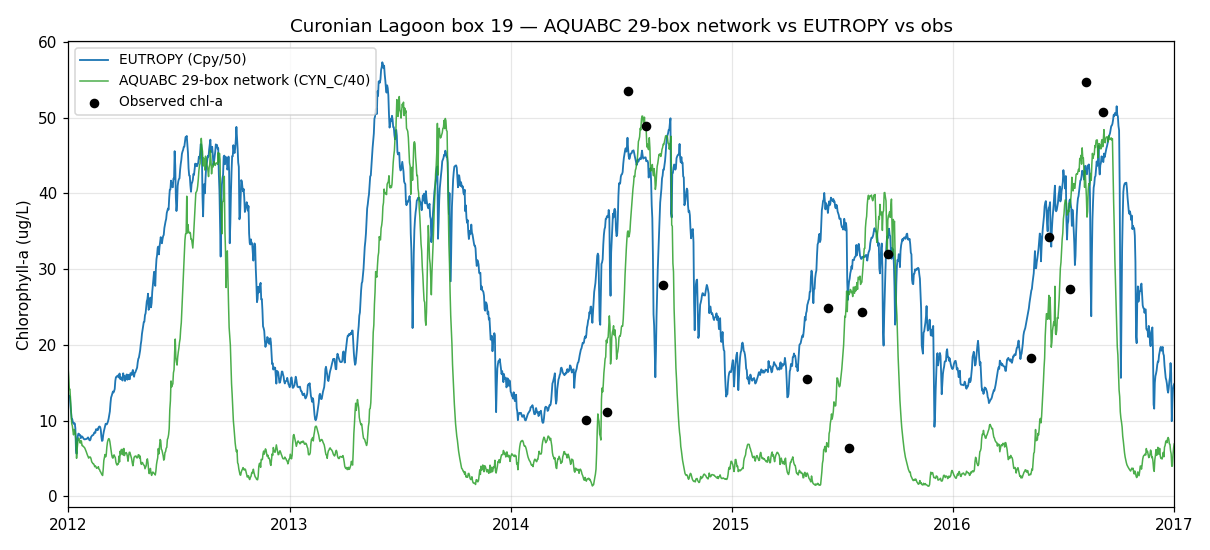
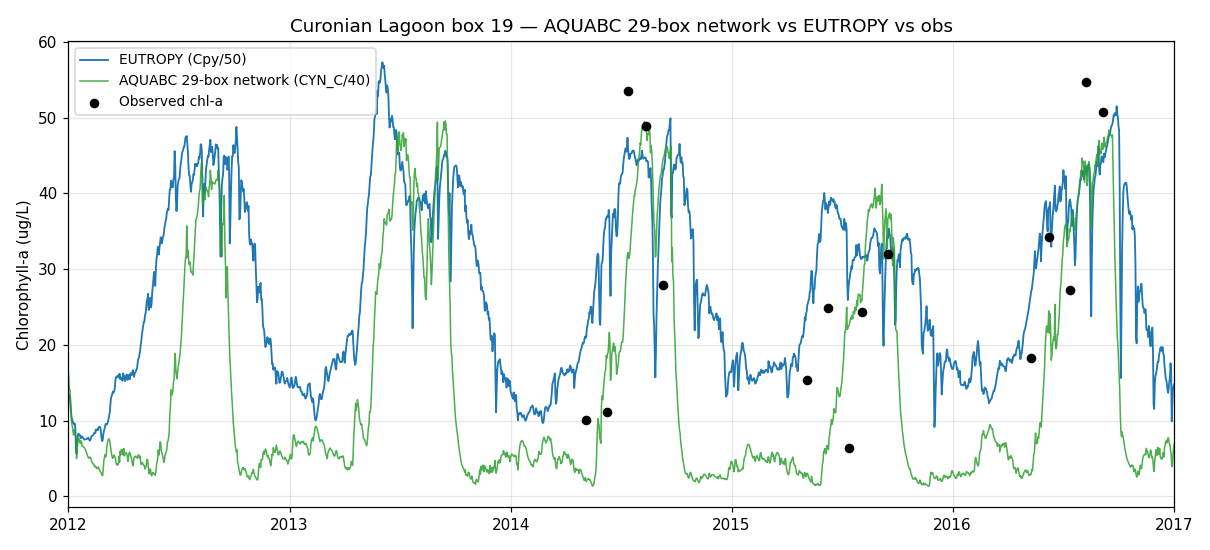
feat(tools): CO2SYS pinning + opt-in daily boundaries for network
- Pin DIC/alkalinity (state vars 20-21) each step so the CO2SYS pH solver
  stays well-conditioned (RUN_CO2SYS is a hardcoded library parameter, so this
  is the contained way to neutralise carbonate chemistry, which is not part of
  the chlorophyll comparison).
- Converter emits daily-interpolated boundary_daily.csv; driver adds a
  boundary-mode arg: 'mean' (default, stable) or 'daily' (time-varying).
- Apply the K_HS fix to the network constants too.

Default mean-BC box-19 fit improves to r=0.73, RMSE=12.20 (vs EUTROPY 12.33) --
the carbonate pin + K_HS fix make the N cycling more physical. Daily mode is
more faithful but currently trips a separate unguarded divide-by-zero in the
N kinetics ~day 1589; kept opt-in pending library hardening.

diff --git a/tools/eutropy_poc/eutropy_to_aquabc_network.py b/tools/eutropy_poc/eutropy_to_aquabc_network.py
@@ -74,6 +74,47 @@ def daily_matrix(path: str, ncols: int):
     return [(d, [x / acc[d][1] for x in acc[d][0]]) for d in sorted(acc)]
 
 
+def read_boundary_series(path):
+    """Sorted [(day, {var: val})] from a ~2-weekly boundary concentration file."""
+    pts = []
+    with open(path) as fh:
+        for row in csv.DictReader(fh):
+            day = _to_day(row["time"])
+            if day is None:
+                continue
+            vals = {}
+            for v in EU_VARS:
+                if row.get(v):
+                    try:
+                        vals[v] = float(row[v])
+                    except ValueError:
+                        pass
+            pts.append((day, vals))
+    pts.sort(key=lambda p: p[0])
+    return pts
+
+
+def interp_daily(pts, var, ndays):
+    """Linear-interpolate one variable onto the daily grid 0..ndays-1."""
+    xs = [(d, vv[var]) for d, vv in pts if var in vv]
+    out = [0.0] * ndays
+    if not xs:
+        return out
+    for day in range(ndays):
+        if day <= xs[0][0]:
+            out[day] = xs[0][1]
+        elif day >= xs[-1][0]:
+            out[day] = xs[-1][1]
+        else:
+            for i in range(len(xs) - 1):
+                x0, y0 = xs[i]
+                x1, y1 = xs[i + 1]
+                if x0 <= day <= x1:
+                    out[day] = y0 + (y1 - y0) * (day - x0) / (x1 - x0) if x1 > x0 else y0
+                    break
+    return out
+
+
 def state_vector(eu_row: dict, which: int) -> list[float]:
     vec = [0.0] * 32
     for idx, (ic, bc) in AQUABC_DEFAULTS.items():
@@ -168,7 +209,26 @@ def main() -> int:
     write_matrix_csv(os.path.join(OUT, "boundary_mean.csv"),
                      ["boundary"] + AQUABC_STATE_NAMES, brows)
 
-    print(f"[network] wrote 9 files to {OUT}/")
+    # --- time-varying (daily-interpolated) boundary concentrations ---
+    nd = ndays
+    bnd_daily = {}
+    for bnd in range(1, BOUNDARIES + 1):
+        pts = read_boundary_series(os.path.join(EU, bfiles[bnd] + ".csv"))
+        series = {v: interp_daily(pts, v, nd) for v in EU_VARS}
+        bnd_daily[bnd] = [state_vector({v: series[v][day] for v in EU_VARS}, 1)
+                          for day in range(nd)]
+    header = ["day"] + [f"b{bnd}_{n}" for bnd in range(1, BOUNDARIES + 1)
+                        for n in AQUABC_STATE_NAMES]
+    drows = []
+    for day in range(nd):
+        row = [day]
+        for bnd in range(1, BOUNDARIES + 1):
+            row += [f"{v:.6f}" for v in bnd_daily[bnd][day]]
+        drows.append(row)
+    write_matrix_csv(os.path.join(OUT, "boundary_daily.csv"), header, drows)
+    print(f"[network] boundary_daily: {nd} days x {BOUNDARIES} boundaries")
+
+    print(f"[network] wrote 10 files to {OUT}/")
     return 0
 
 
